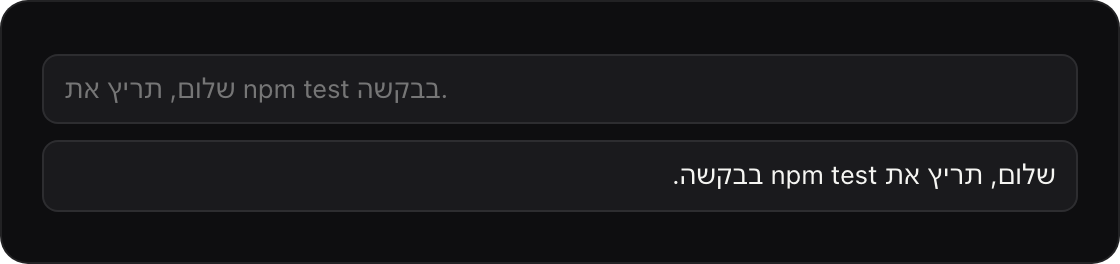
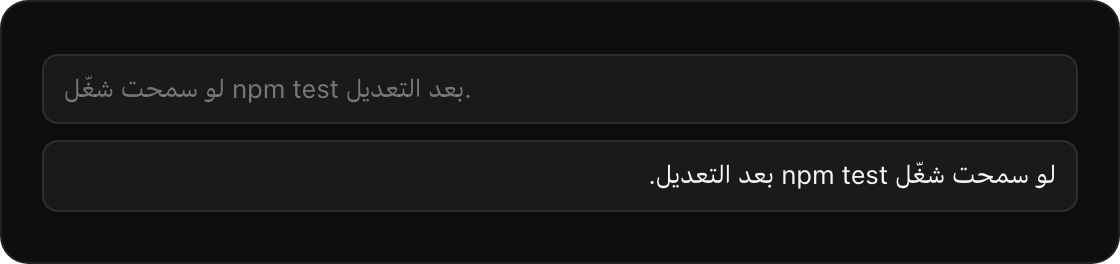
README: Arabic example in the right-to-left picture

Changed region(s): [[0.0625, 0.303, 0.4375, 0.3939], [0.5938, 0.6364, 0.9375, 0.7273]]

diff --git a/scripts/readme-art/art.html b/scripts/readme-art/art.html
@@ -140,8 +140,8 @@ Tests: 12 passed, 12 total</div></div>
 
 <!-- Right-to-left text (per language) -->
 <div class="img narrow feat" data-art="rtl" data-per-lang>
-  <div class="mini-line ltr-broken" style="color:var(--ink-3)" lang="en">שלום, תריץ את npm test בבקשה.</div>
-  <div class="mini-line rtl-fixed" lang="en">שלום, תריץ את npm test בבקשה.</div>
+  <div class="mini-line ltr-broken" style="color:var(--ink-3)" lang="en">لو سمحت شغّل npm test بعد التعديل.</div>
+  <div class="mini-line rtl-fixed" lang="en">لو سمحت شغّل npm test بعد التعديل.</div>
   <div class="mini-line ltr-broken" style="color:var(--ink-3)" lang="ar">لو سمحت شغّل npm test بعد التعديل.</div>
   <div class="mini-line rtl-fixed" lang="ar">لو سمحت شغّل npm test بعد التعديل.</div>
 </div>

diff --git a/README.md b/README.md
@@ -58,7 +58,7 @@ Arabic, Hebrew, Persian, Urdu and the other supported right-to-left scripts read
 
 <picture>
   <source media="(prefers-color-scheme: dark)" srcset="assets/readme/rtl-en-dark.png">
-  <img src="assets/readme/rtl-en-light.png" width="560" alt="A Hebrew sentence with an English command, first laid out left to right, then right to left.">
+  <img src="assets/readme/rtl-en-light.png" width="560" alt="An Arabic sentence with an English command, first laid out left to right, then right to left.">
 </picture>
 
 ### The broom
